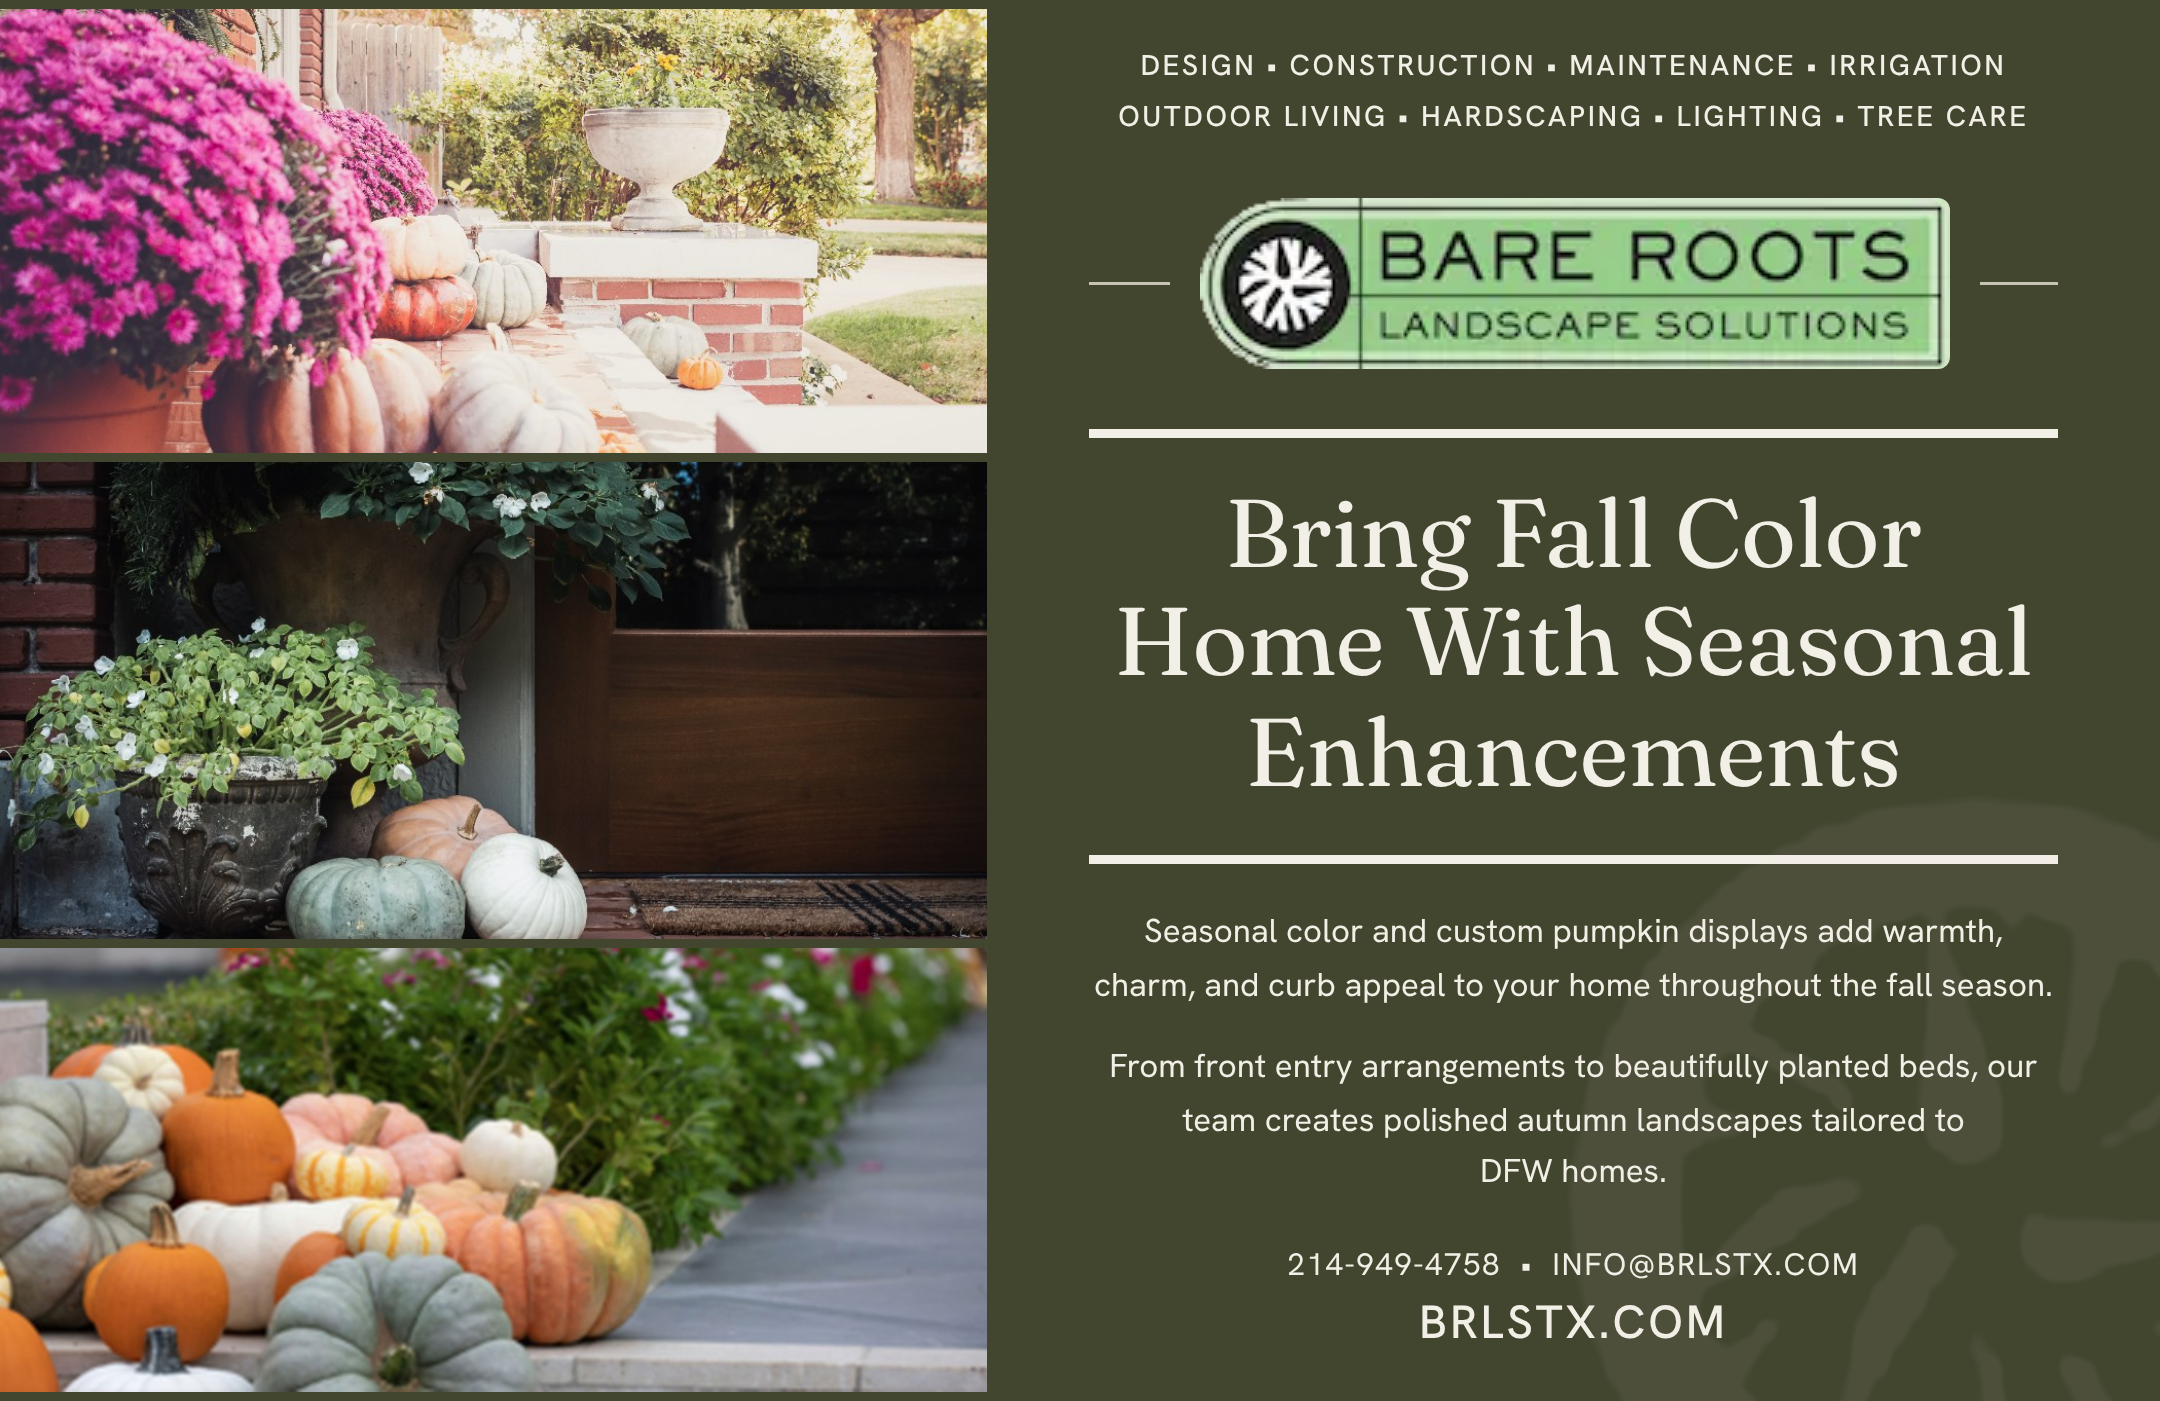
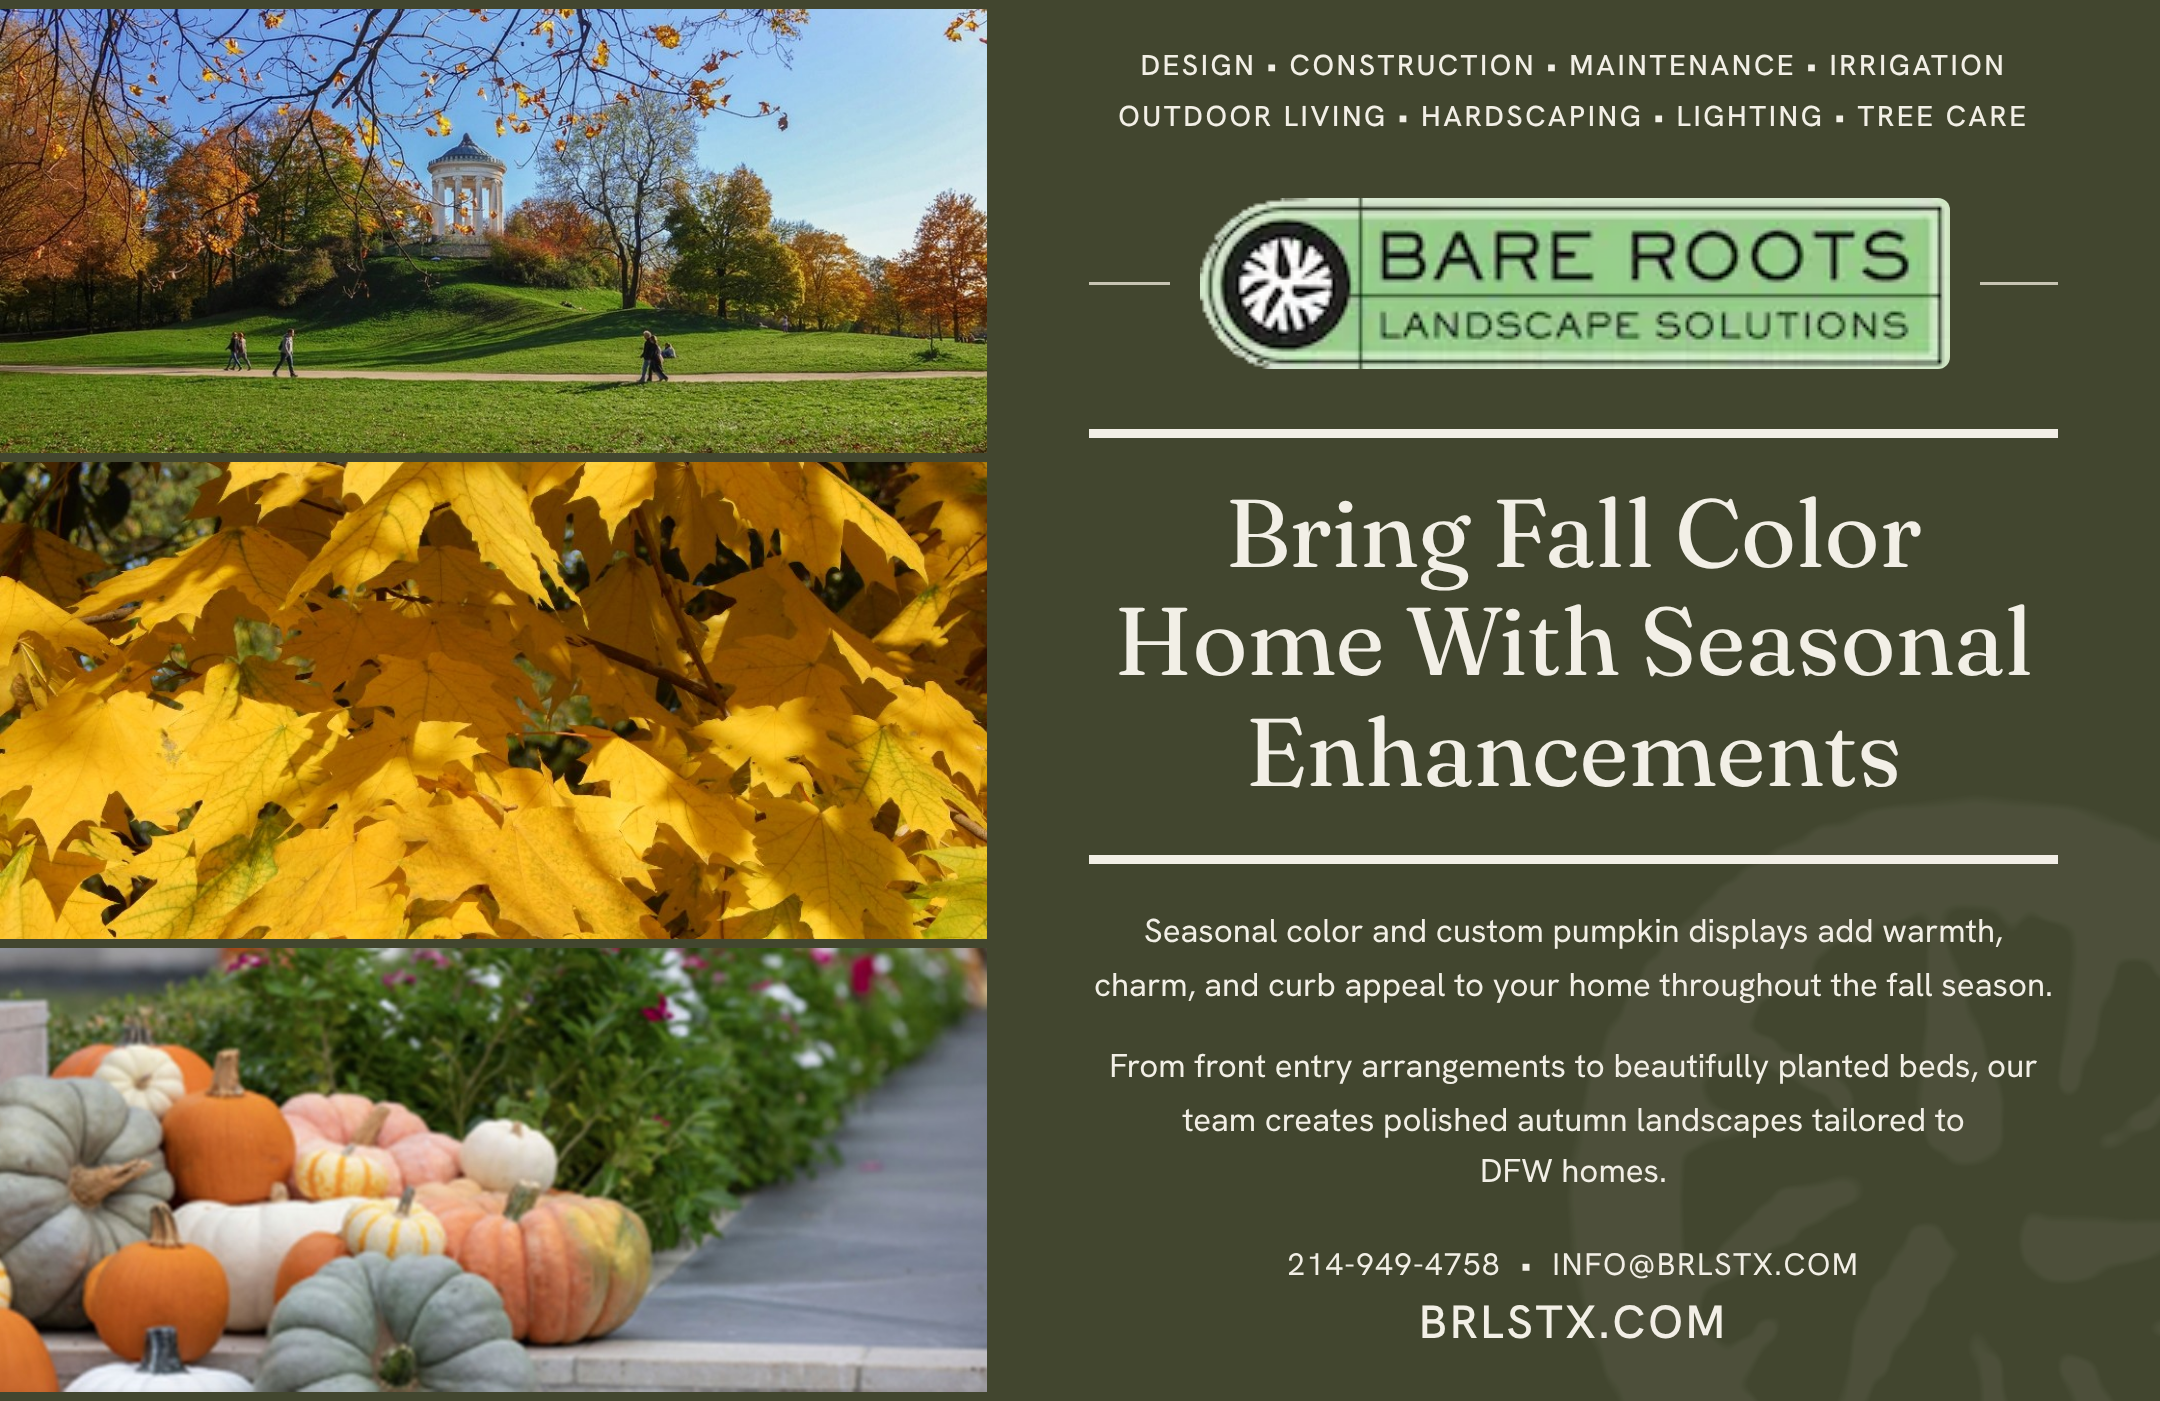
Vary flyer photos: fall park landscape and maple leaves
Replace the two pumpkin-display photos with a wide autumn park scene and a
golden maple-leaf close-up so the three photos no longer look alike.

Claude-Session: https://claude.ai/code/session_0117pxYqYpLQnCBMpRMYt127

Changed region(s): [[0.0, 0.0, 0.4653, 0.6752]]

diff --git a/bare-roots-fall-flyer/flyer.html b/bare-roots-fall-flyer/flyer.html
@@ -28,8 +28,8 @@
   }
   .photos { display: grid; grid-template-rows: 148px 159px 148px; row-gap: 3px; padding: 3px 0 3px; background: var(--olive); }
   .photos div { background-size: cover; background-position: center; }
-  .p1 { background-image: url(images/photo-1-mums-pumpkins.jpg); background-position: 50% 55%; }
-  .p2 { background-image: url(images/photo-2-entry-pumpkins.jpg); background-position: 50% 60%; }
+  .p1 { background-image: url(images/photo-1-fall-park.jpg); background-position: 50% 55%; }
+  .p2 { background-image: url(images/photo-2-fall-leaves.jpg); background-position: 50% 40%; }
   .p3 { background-image: url(images/photo-3-pumpkins.jpg); }
 
   .panel { position: relative; padding: 14px 34px 16px; text-align: center; display: flex; flex-direction: column; align-items: center; }

diff --git a/bare-roots-fall-flyer/images/CREDITS.md b/bare-roots-fall-flyer/images/CREDITS.md
@@ -2,7 +2,7 @@
 
 | File | Source | License |
 | --- | --- | --- |
-| `photo-1-mums-pumpkins.jpg` | "Exterior Pumpkins" by Kelly Ishmael, https://stocksnap.io/photo/exterior-pumpkins-OERCTRWJNA | CC0 1.0 |
-| `photo-2-entry-pumpkins.jpg` | "Exterior Pumpkins" by Kelly Ishmael, https://stocksnap.io/photo/exterior-pumpkins-HUXJWKRME3 | CC0 1.0 |
+| `photo-1-fall-park.jpg` | Autumn park, rawpixel, https://www.rawpixel.com/image/5943291/free-public-domain-cc0-photo | CC0 1.0 |
+| `photo-2-fall-leaves.jpg` | "Autumn City" by Oleg Prokopenko, https://stocksnap.io/photo/autumn-city-AOA4GGYEKJ | CC0 1.0 |
 | `photo-3-pumpkins.jpg` | Cropped from the supplied Rosewood Landscape Group reference flyer | Not cleared; confirm rights before use |
 | `bare-roots-logo.png`, `emblem-watermark.png` | Bare Roots logo from brlstx.com | Client brand asset |
